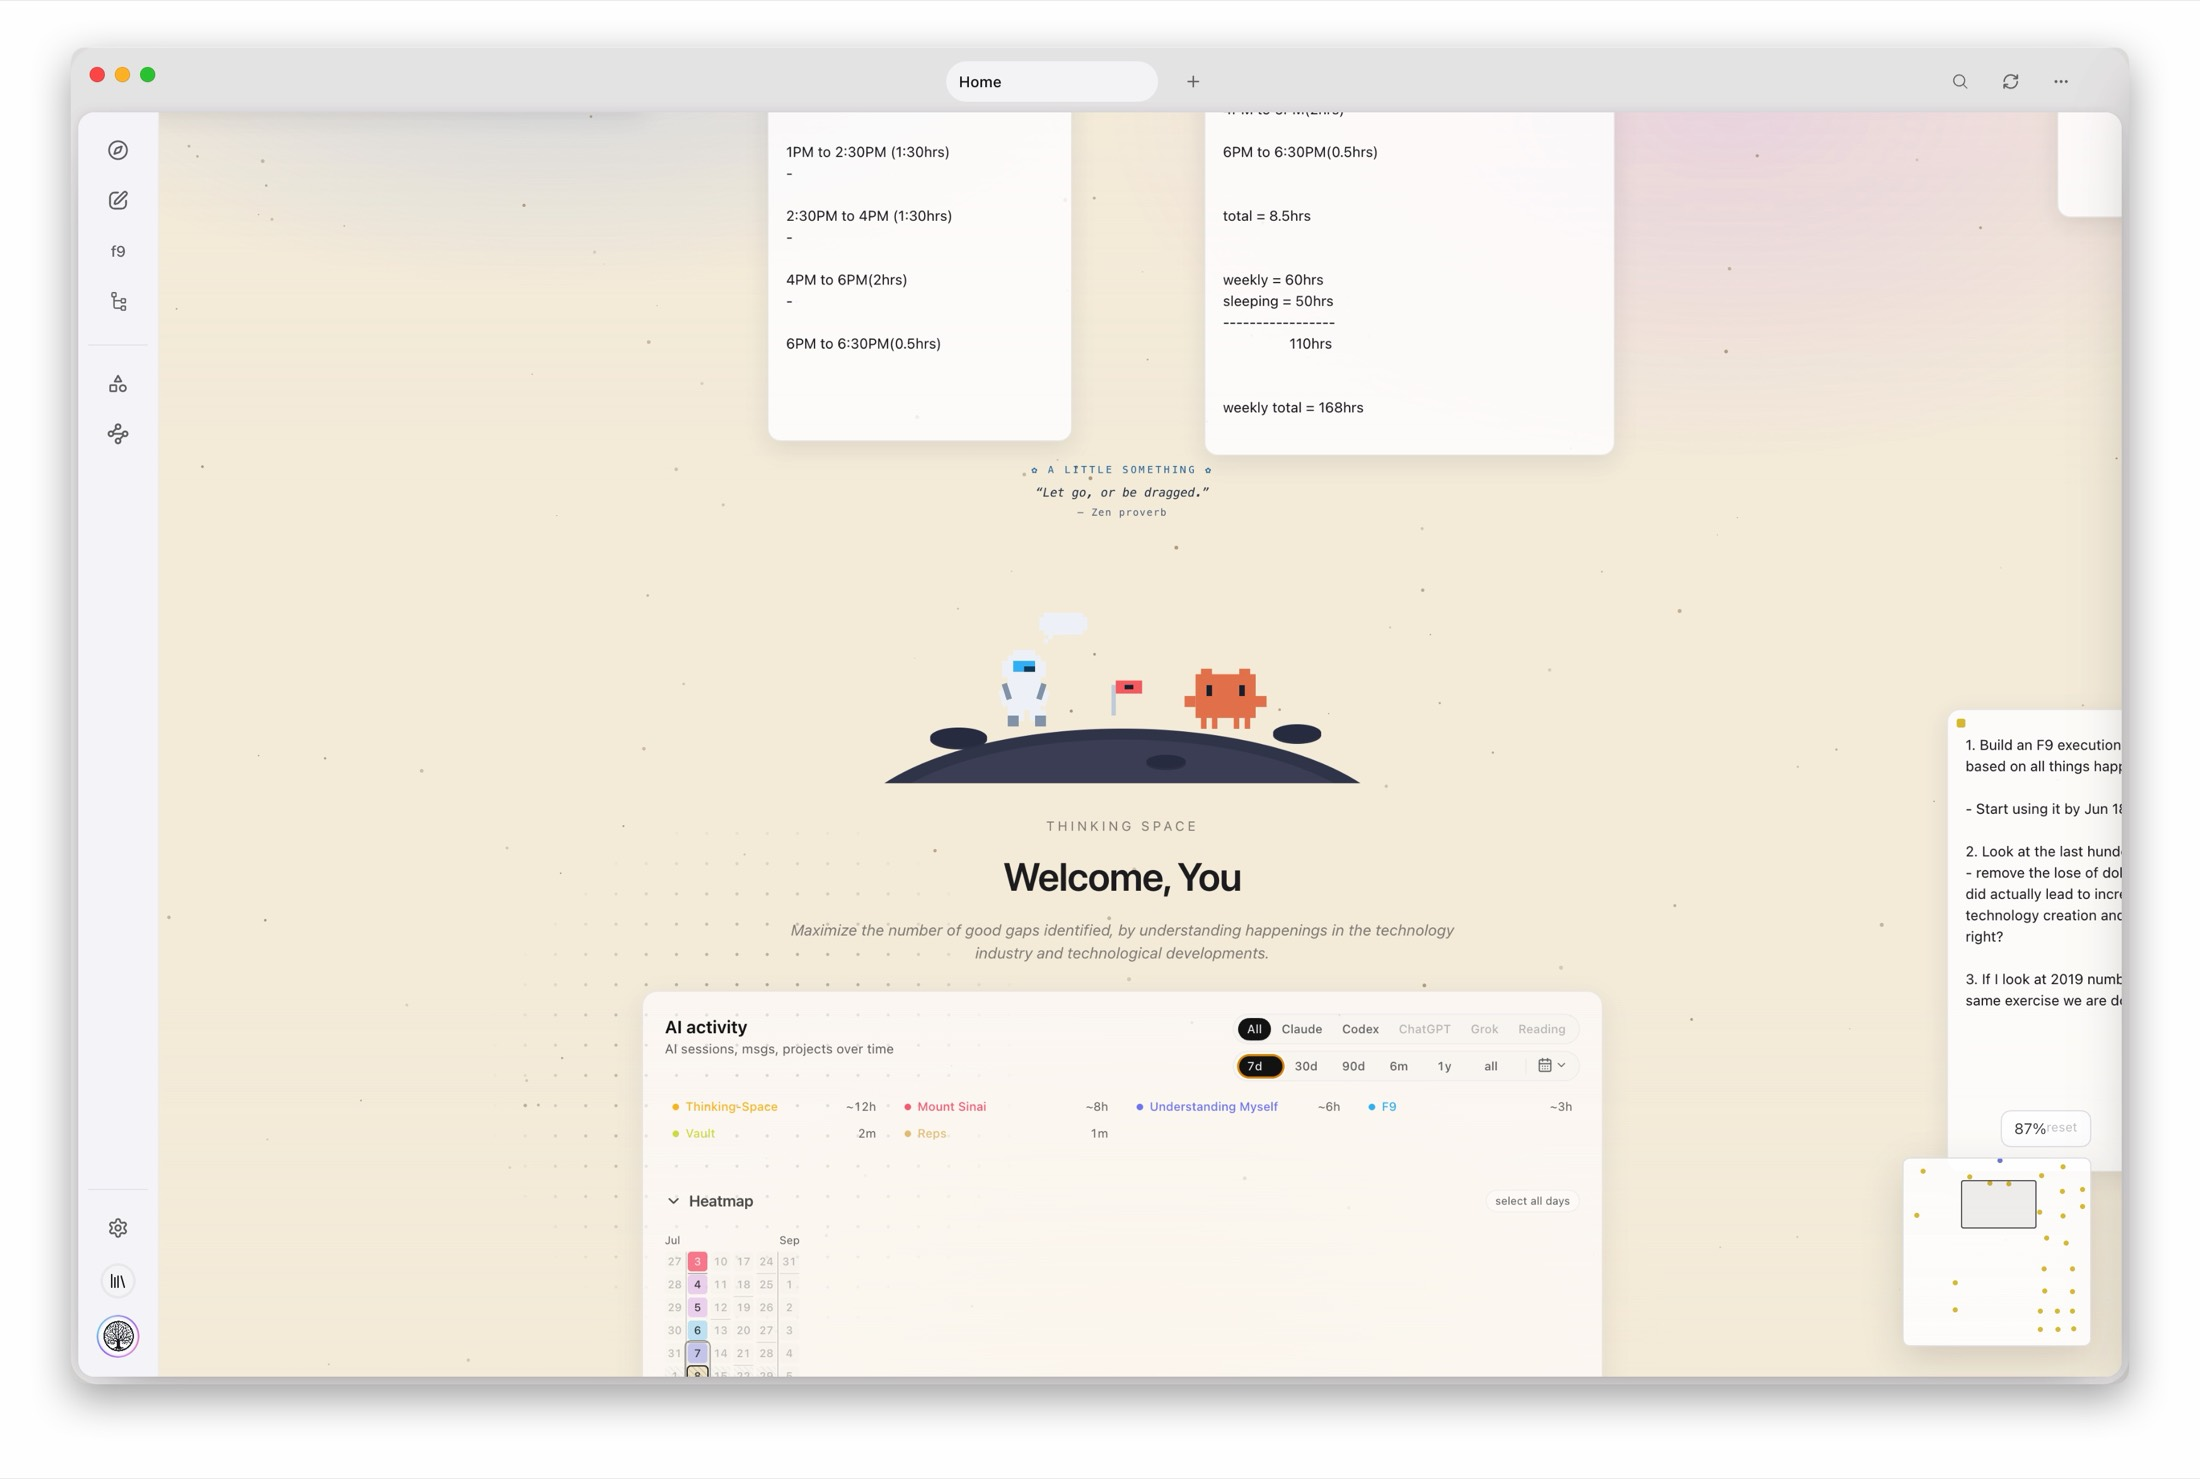
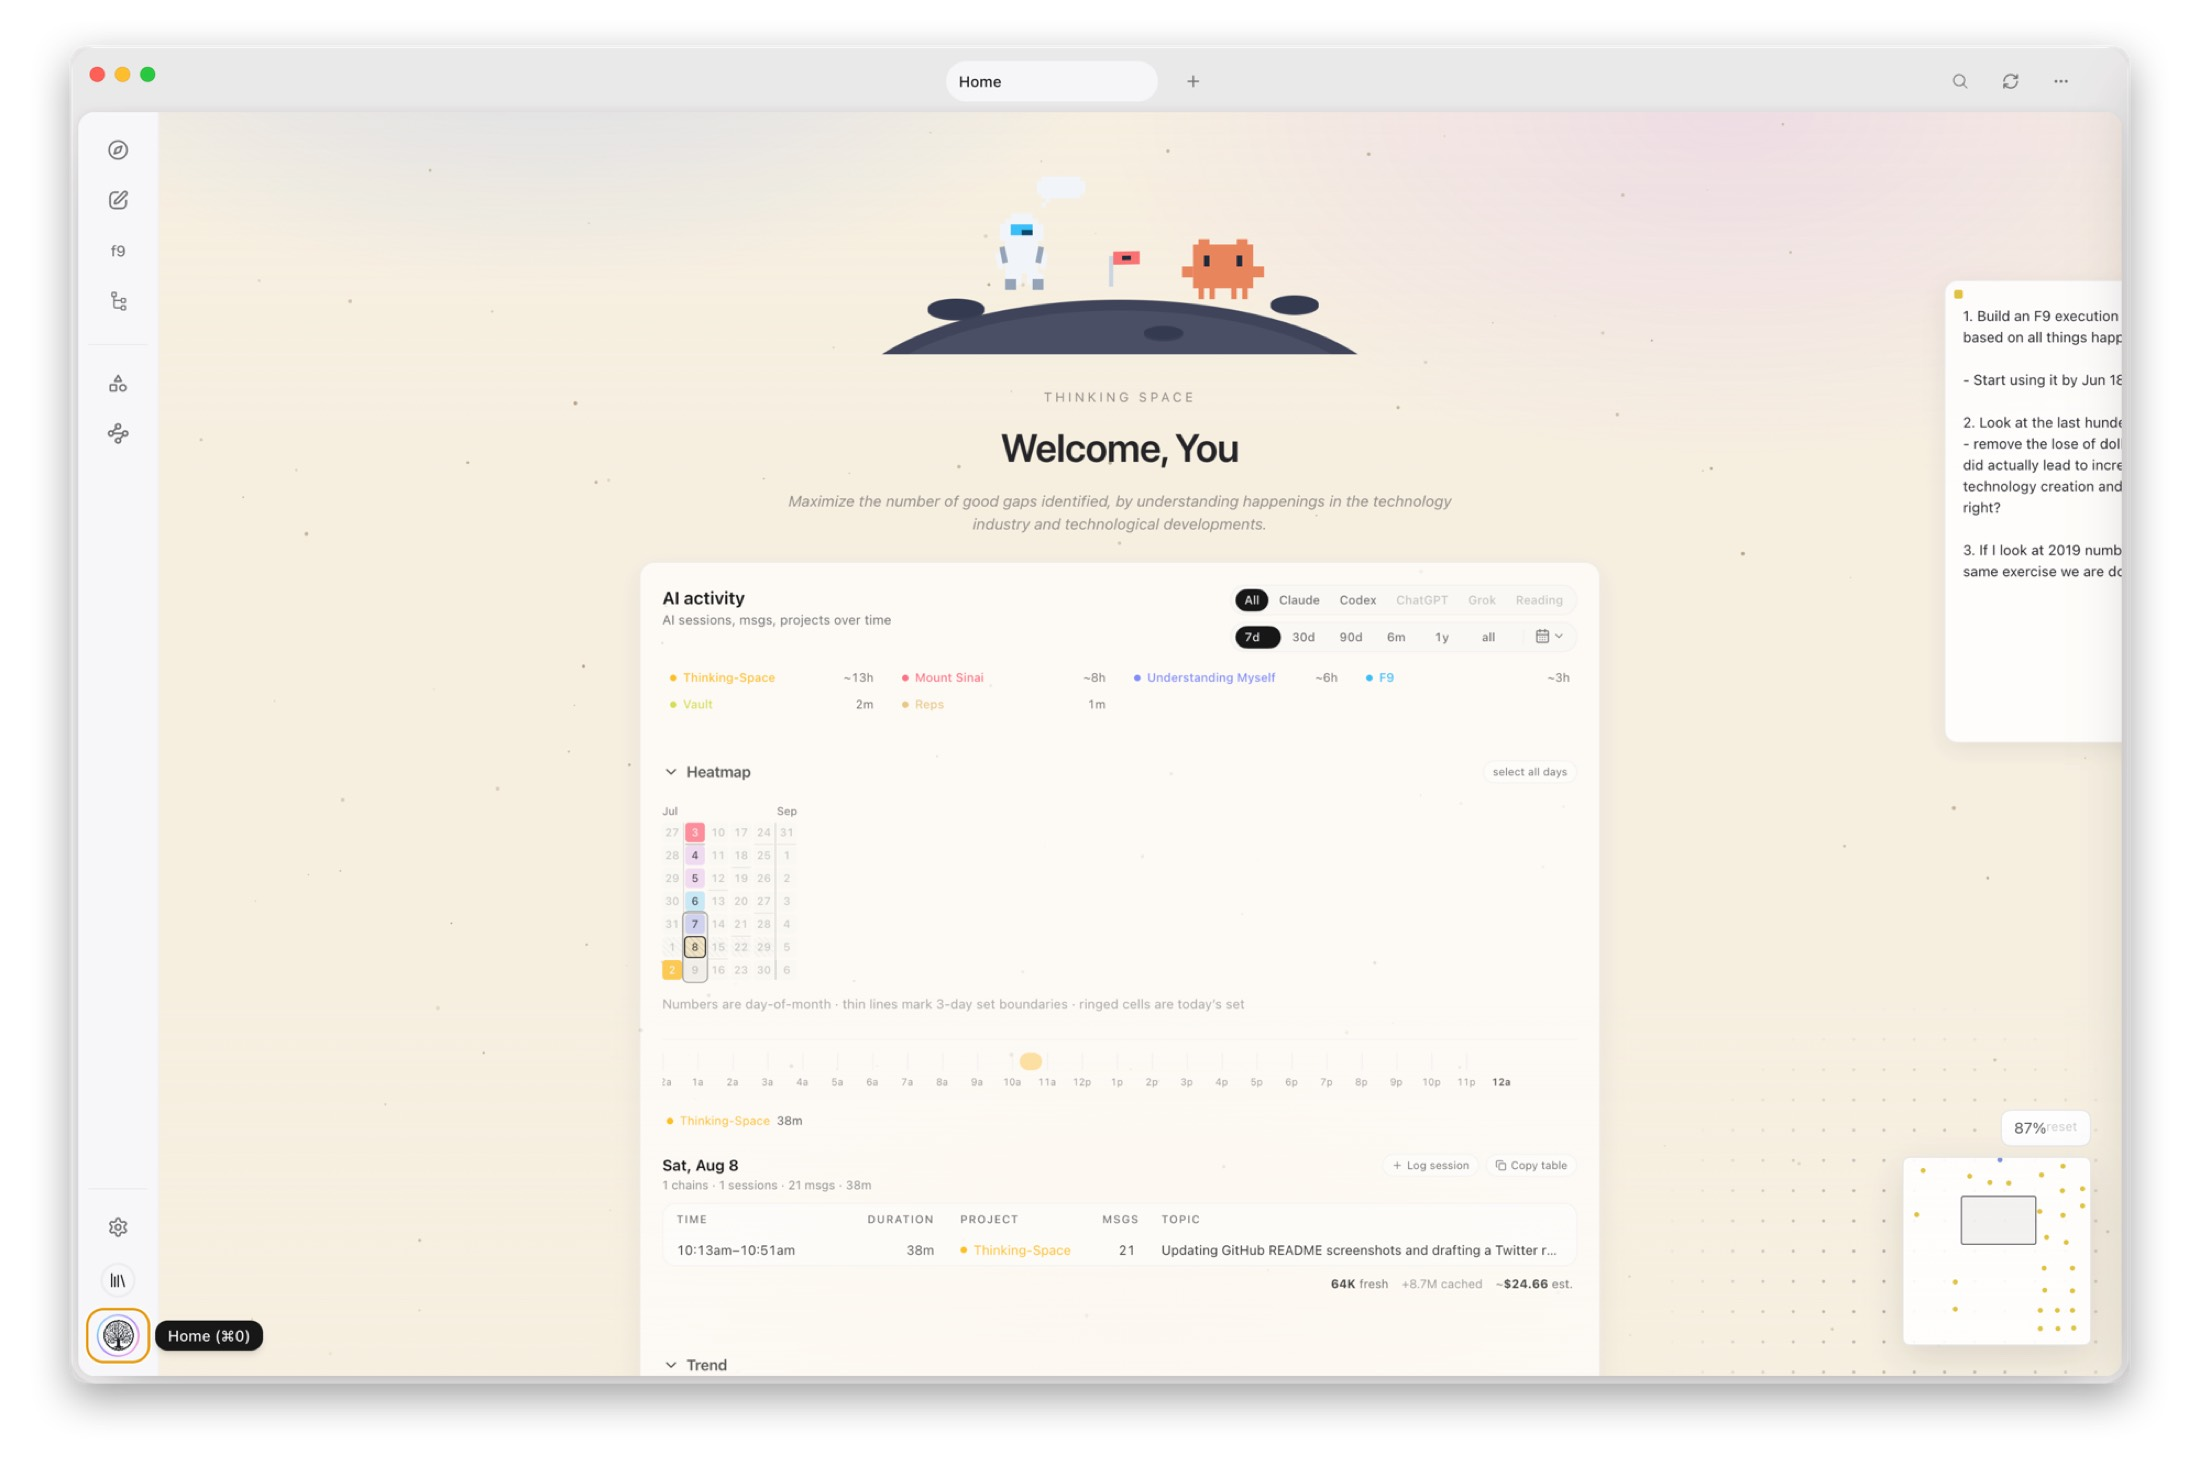
docs(readme): tighter home shot with less vault content in frame
Drops the time-budget sticky notes the previous capture had in view and
gives the AI Activity panel the room it needs to read. Caption follows
the frame, which now leads with activity rather than the widgets.

Claude-Session: https://claude.ai/code/session_01GcSwvtDjEzCLK6JdM8BiY2

diff --git a/README.md b/README.md
@@ -53,7 +53,7 @@ Use an existing notes folder or start a new one (a cloud-synced folder keeps it 
 <p align="center">
   <img src="docs/screenshots/home-dashboard.jpg" alt="Thinking Space home canvas" width="900" />
   <br />
-  <em>Home canvas — pixel-art ambient scene, draggable notes and widgets, and the AI Activity panel</em>
+  <em>Home canvas — a pixel-art ambient scene over the AI Activity panel: what you and your agents did, by project, by day</em>
 </p>
 
 <p align="center">
